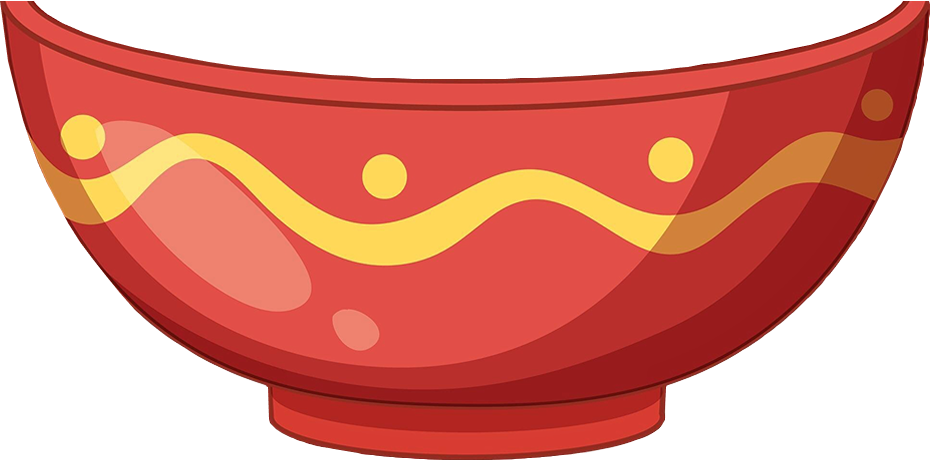
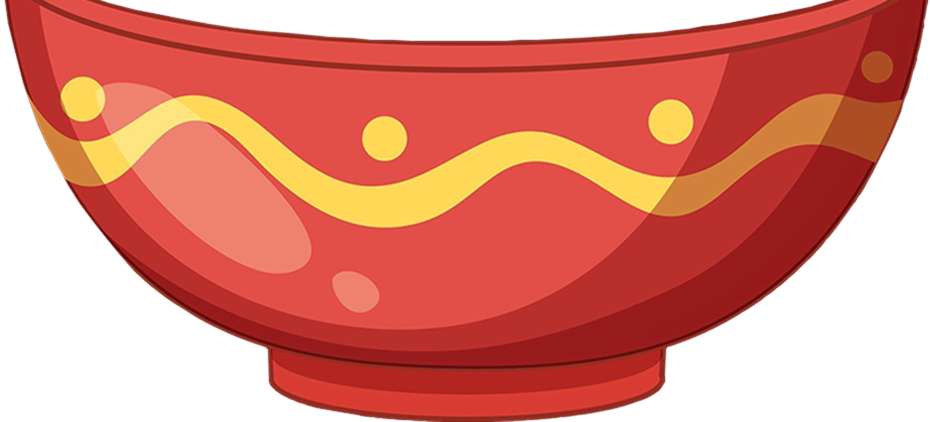
Optimize how intro appears

diff --git a/src/components/Intro/index.tsx b/src/components/Intro/index.tsx
@@ -45,54 +45,84 @@ const Intro: FC = () => {
   const bowlRef = useRef<HTMLImageElement | null>(null);
 
   useLayoutEffect(() => {
-    if (!bowlRef.current) return;
+    let ctx = gsap.context(() => {
+      if (!bowlRef.current) return;
 
-    const bowlRect = bowlRef.current.getBoundingClientRect();
+      const bowlRect = bowlRef.current.getBoundingClientRect();
 
-    letterRefs.current.forEach((el, i) => {
-      if (!el) return;
-
-      const startX = Math.random() * window.innerWidth;
-      const startY = -100 - Math.random() * 300;
-      const gaussianRandom = 0.5 + 0.35 * (Math.random() + Math.random() - 1);
-      const targetX = bowlRect.left + gaussianRandom * (bowlRect.width - 10);
-      const targetY = bowlRect.top + bowlRect.height / 12;
-
-      Draggable.create(el, {
-        type: 'x,y', // Drag along x and y axis
-        edgeResistance: 0.65,
-        bounds: window, // limit dragging within window boundaries
-        inertia: true, // smooth dragging with inertia
-      });
-
-      gsap.set(el, {
-        x: startX,
-        y: startY,
-        rotation: Math.random() * 360,
-      });
-
-      gsap.to(el, {
-        duration: 7 + Math.random(),
-        x: targetX,
-        y: targetY + (Math.random() * 15 - 5),
-        rotation: 0,
-        opacity: 1,
-        ease: 'bounce.out',
-        delay: i * 0.1,
-        onComplete: () => {
-          // "Schwimmen" nach dem Eintauchen
-          gsap.to(el, {
-            duration: 3 + Math.random(),
-            x: `+=${Math.random() * 50 - 10}`,
-            y: `+=${Math.random() * 50 - 10}`,
-            rotation: `+=${Math.random() * 30 - 15}`,
-            repeat: -1,
-            yoyo: true,
-            ease: 'sine.inOut',
-          });
+      gsap.fromTo(
+        '#soup-bowl',
+        {
+          opacity: 0,
+          scale: 0.2,
         },
+        {
+          scale: 1,
+          opacity: 1,
+          duration: 2,
+          ease: 'power3.out',
+        },
+      );
+
+      gsap.fromTo(
+        '#soup-bowl-front',
+        {
+          opacity: 0,
+        },
+        {
+          opacity: 1,
+          delay: 2,
+          ease: 'power3.out',
+        },
+      );
+
+      letterRefs.current.forEach((el, i) => {
+        if (!el) return;
+
+        const startX = Math.random() * window.innerWidth;
+        const startY = -100 - Math.random() * 300;
+        const gaussianRandom = 0.5 + 0.4 * (Math.random() + Math.random() - 1);
+        const targetX = bowlRect.left + gaussianRandom * (bowlRect.width - 10);
+        const targetY = bowlRect.top + bowlRect.height / 12;
+
+        Draggable.create(el, {
+          type: 'x,y', // Drag along x and y axis
+          edgeResistance: 0.65,
+          bounds: window, // limit dragging within window boundaries
+          inertia: true, // smooth dragging with inertia
+        });
+
+        gsap.set(el, {
+          x: startX,
+          y: startY,
+          rotation: Math.random() * 360,
+        });
+
+        gsap.to(el, {
+          duration: 7 + Math.random(),
+          x: targetX,
+          y: targetY + (Math.random() * 35 - 15),
+          rotation: 0,
+          opacity: 1,
+          ease: 'bounce.out',
+          delay: i * 0.1,
+          onComplete: () => {
+            // "Schwimmen" nach dem Eintauchen
+            gsap.to(el, {
+              duration: 3 + Math.random(),
+              x: `+=${Math.random() * 50 - 10}`,
+              y: `+=${Math.random() * 70 - 30}`,
+              rotation: `+=${Math.random() * 30 - 15}`,
+              repeat: -1,
+              yoyo: true,
+              ease: 'sine.inOut',
+            });
+          },
+        });
       });
     });
+
+    return () => ctx.revert();
   }, []);
 
   return (
@@ -105,6 +135,7 @@ const Intro: FC = () => {
           alt="Suppenschale"
           ref={bowlRef}
           priority
+          id="soup-bowl"
         />
         <LettersLayer>
           {LETTERS.map((char, i) => (
@@ -118,10 +149,11 @@ const Intro: FC = () => {
           width={BowlFront.width / 3}
           height={BowlFront.height / 3}
           alt="Suppenschale-front"
+          id="soup-bowl-front"
         />
         <DragNote>
           <InfoIcon />
-          <Typography fontSize="10px">Du kannst die Buchstaben bewegen</Typography>
+          <Typography fontSize="10px">Erstelle dein eigenes Wort via Drag & Drop</Typography>
         </DragNote>
         <DragNote></DragNote>
         <ScrollArrowContainer

diff --git a/src/components/Intro/styles.tsx b/src/components/Intro/styles.tsx
@@ -42,26 +42,32 @@ export const ContentWrapper = styled.div`
 export const SoupBowl = styled(Image)`
   position: absolute;
   top: 36.7%;
-  left: calc(50% - 175px);
+  /*  left: 25%; */
   height: auto;
   width: 90%;
   z-index: 0;
 
   ${({ theme }) => theme.media('xs')`
-    width: 350px;
+    width: 450px;
+
+    left: calc(50% - 225px);
+    top: 36.7%;
   `}
 `;
 
 export const SoupBowlFront = styled(Image)`
   position: absolute;
-  top: 42%;
-  left: calc(50% - 175px);
+  top: 45%;
+  /* left: 25%; */
   height: auto;
   width: 90%;
   z-index: 2;
 
   ${({ theme }) => theme.media('xs')`
-    width: 350px;
+ 
+    width: 450px;
+    left: calc(50% - 225px);
+    top: 46%;
   `}
 `;
 
@@ -99,7 +105,7 @@ export const ScrollArrowContainer = styled.button`
     width: 25px !important;
     height: 25px !important;
     path {
-      fill: ${({ theme }) => theme.colors.fg.default};
+      fill: ${({ theme }) => theme.colors.accent.yellow};
     }
   }
 
@@ -113,8 +119,8 @@ export const ScrollArrowContainer = styled.button`
 
 export const DragNote = styled.span`
   position: absolute;
-  bottom: 30%;
-  left: calc(50% - 104px);
+  bottom: 23%;
+  left: calc(50% - 120.5px);
   ${flexRow};
   gap: 4px;
   opacity: 0;
